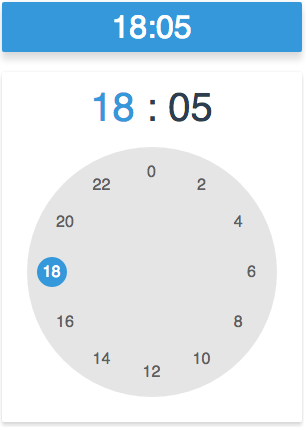
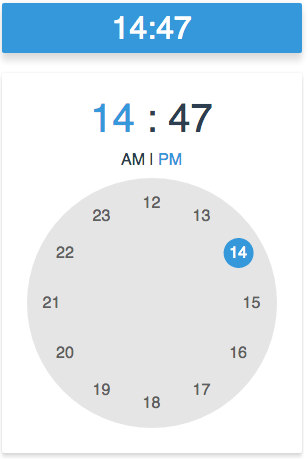
24hour mode completed

diff --git a/src/components/TimePickerGenerator.vue b/src/components/TimePickerGenerator.vue
@@ -1,12 +1,14 @@
 <template lang="pug">
 
-
 div
 	div(v-if="type=='minute'" id="picker-pointer-container")
 		picker-points(v-for="(m,i) in MINUTES" v-if="i%5==0" ':index'="i" ':key'="i" ':angle'="6*i" ':handle-time-change'="handleTimePointerClick" ':picked'="i==minute")
 	div(v-else id="picker_pointer_container")
-		picker-points(v-for="(h,i) in HOURS" v-if="i%2==0" ':index'="i" ':key'="i" ':angle'="15*i" ':handle-time-change'="handleTimePointerClick" ':picked'="i==hour")
-
+		picker-points(v-for="(h,i) in TWELVE_HOURS" ':index'="interval=='AM'?i:i+12" ':key'="interval=='AM'?i:i+12" ':angle'="30*i" ':handle-time-change'="handleTimePointerClick" ':picked'="interval=='AM'?i==hour:(i+12)==hour")
+		div(class="interval-container")
+			span(@click="handleIntervalChange('AM')" class="time-picker-interval" ':class'="{active:interval=='AM'}") AM
+			| &nbsp;|&nbsp;
+			span(@click="handleIntervalChange('PM')" class="time-picker-interval" ':class'="{active:interval=='PM'}") PM
 
 </template>
 
@@ -45,11 +47,17 @@ export default {
 		return {
 			MINUTES,
 			HOURS,
-			TWELVE_HOURS
+			TWELVE_HOURS,
+			interval: 'AM'
 		}
 	},
 	components: {
 		PickerPoints
+	},
+	methods: {
+		handleIntervalChange(itv) {
+			this.interval = itv
+		}
 	}
 }
 </script>
@@ -63,5 +71,21 @@ export default {
 #picker-pointer-container.animation {
   opacity: 0;
   transform: scale3d(0.85, 0.85, 1);
+}
+
+.interval-container {
+	transform: translateY(-150%);
+	transition: all 300ms cubic-bezier(0.165, 0.84, 0.44, 1);
+}
+
+.time-picker-interval {
+  cursor: pointer;
+}
+.time-picker-interval.active {
+  color: #3498db;
+  cursor: default;
+}
+.time-picker-interval:hover {
+  color: #3498db;
 }
 </style>

diff --git a/src/components/PickerPoints.vue b/src/components/PickerPoints.vue
@@ -1,14 +1,8 @@
 <template lang="pug">
 
 
-
-
-
 div(':style'="inlineStyle" '@click'="handleTimeChange(index,angle)" class="picker-point" ':class'="[pointClass,{current:picked}]")
 	div(class="pointer-wrapper" ':style'="wrapperStyle") {{index}}
-
-
-
 
 
 </template>
@@ -69,11 +63,11 @@ export default {
   text-align: center;
   line-height: 30px;
   border-radius: 50%;
-  transition: all 400ms cubic-bezier(0.165, 0.84, 0.44, 1);
 }
 .picker-point.current{
 	background-color:#3498db;
 	color:#fff !important;
+	transition: all 400ms cubic-bezier(0.165, 0.84, 0.44, 1);
 }
 .picker-point.point-outter {
   top: 10px;

diff --git a/src/components/TimePickerModal.vue b/src/components/TimePickerModal.vue
@@ -130,8 +130,8 @@ export default {
 	box-shadow: 0 8px 8px 0 rgba(0, 0, 0, 0.12), 0 0 8px 0 rgba(0, 0, 0, 0.08);
 }
 .time-picker-modal-header {
-  height: 50px;
-  line-height: 20px;
+  height: 80px;
+  line-height: 40px;
   text-align: center;
   font-size: 2.5em;
   position: relative;

diff --git a/README.md b/README.md
@@ -12,7 +12,7 @@
 
 > 24 Hours Mode, with Material Design. Try the [Live Demo](https://domonji.github.io/vue-clock-picker)
 
-![24HoursMode](./intro_src/24M.png) ![vue-clock-picker](./intro_src/1.gif)
+![24HoursMode](./intro_src/24M.png) ![vue-clock-picker](./intro_src/24M.gif)
 
 ## HAVE A TRY
 
